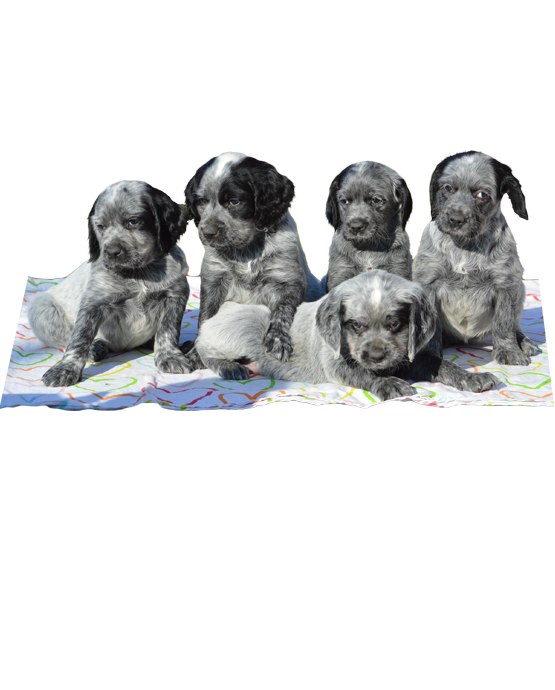
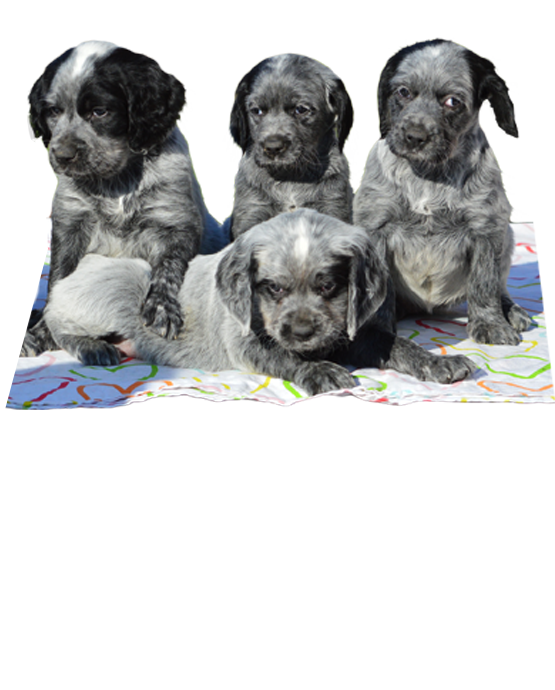
widok szczeniat (rozdroze)

diff --git a/szczenieta.html b/szczenieta.html
@@ -8,7 +8,7 @@
     <meta name="viewport" content="width=device-width, initial-scale=1, shrink-to-fit=no">
 
     <!-- Title -->
-    <title>Nasze psy | Kolebka Czarnej Koli</title>
+    <title>Szczenięta | Kolebka Czarnej Koli</title>
 
     <!-- Stylesheet -->
     <link rel="stylesheet" href="style.css">
@@ -49,8 +49,8 @@
                             <div class="classynav">
                                 <ul id="nav">
                                     <li><a href="./index.html">Strona główna</a></li>
-									<li class="active"><a href="./naszepsy.html">Nasze psy</a></li>
-									<li><a href="./szczenieta.html">Szczenięta</a></li>
+									<li><a href="./naszepsy.html">Nasze psy</a></li>
+									<li class="active"><a href="./szczenieta.html">Szczenięta</a></li>
                                     <li><a href="./galeria.html">Galeria zdjęć</a></li>
                                     <li><a href="./kontakt.html">Kontakt</a></li>
                                 </ul>
@@ -84,11 +84,11 @@
             <div class="row">
 
                 <!-- Single Team Member -->
-                <div class="col-12 col-sm-12 col-lg-6">
-					<a href="naszepsy/orson.html">
+                <div class="col-12 col-sm-6 col-lg-4">
+					<a href="mioty/noraorson.html">
 	                    <div class="single-team-member mb-80 wow fadeInUp" data-wow-delay="400ms">
 	                        <div class="team-member-img">
-	                            <img src="img/kolebka/orson-tile.jpg" alt="">
+	                            <img src="img/kolebka/nora-puppies-tile.jpg" alt="">
 	                            <!-- Social Info -->
 	                            <div class="team-social-info d-flex align-items-center justify-content-center">
 	                                <div class="social-link">
@@ -97,19 +97,20 @@
 	                            </div>
 	                        </div>
 	                        <div class="team-member-info">
-	                            <h5>ORSON</h5>
-	                            <p>DU CLOS MALDAV</p>
+	                            <h5><strong>MATKA:</strong> NORA du Clos Maldav</h5>
+	                            <h5><strong>OJCIEC:</strong> ORSON du Clos Maldav</h5>
+								<p>Urodzone 8.03.2019</p>
 	                        </div>
 	                    </div>
 					</a>
                 </div>
 
 				<!-- Single Team Member -->
-                <div class="col-12 col-sm-12 col-lg-6">
-					<a href="naszepsy/orson.html">
+                <div class="col-12 col-sm-6 col-lg-4">
+					<a href="mioty/nayamishka.html">
 	                    <div class="single-team-member mb-80 wow fadeInUp" data-wow-delay="200ms">
 	                        <div class="team-member-img">
-	                            <img src="img/kolebka/only-tile.jpg" alt="">
+	                            <img src="img/kolebka/naya-puppies-tile.jpg" alt="">
 	                            <!-- Social Info -->
 	                            <div class="team-social-info d-flex align-items-center justify-content-center">
 	                                <div class="social-link">
@@ -118,8 +119,9 @@
 	                            </div>
 	                        </div>
 	                        <div class="team-member-info">
-	                            <h5>ONLY</h5>
-	                            <p>DU CLOS MALDAV</p>
+								<h5><strong>MATKA:</strong> NAYA du Clos Maldav</h5>
+	                            <h5><strong>OJCIEC:</strong> Mishka de la Carriere Aux Mordorees</h5>
+								<p>Urodzone 4.07.2019</p>
 	                        </div>
 	                    </div>
 					</a>
